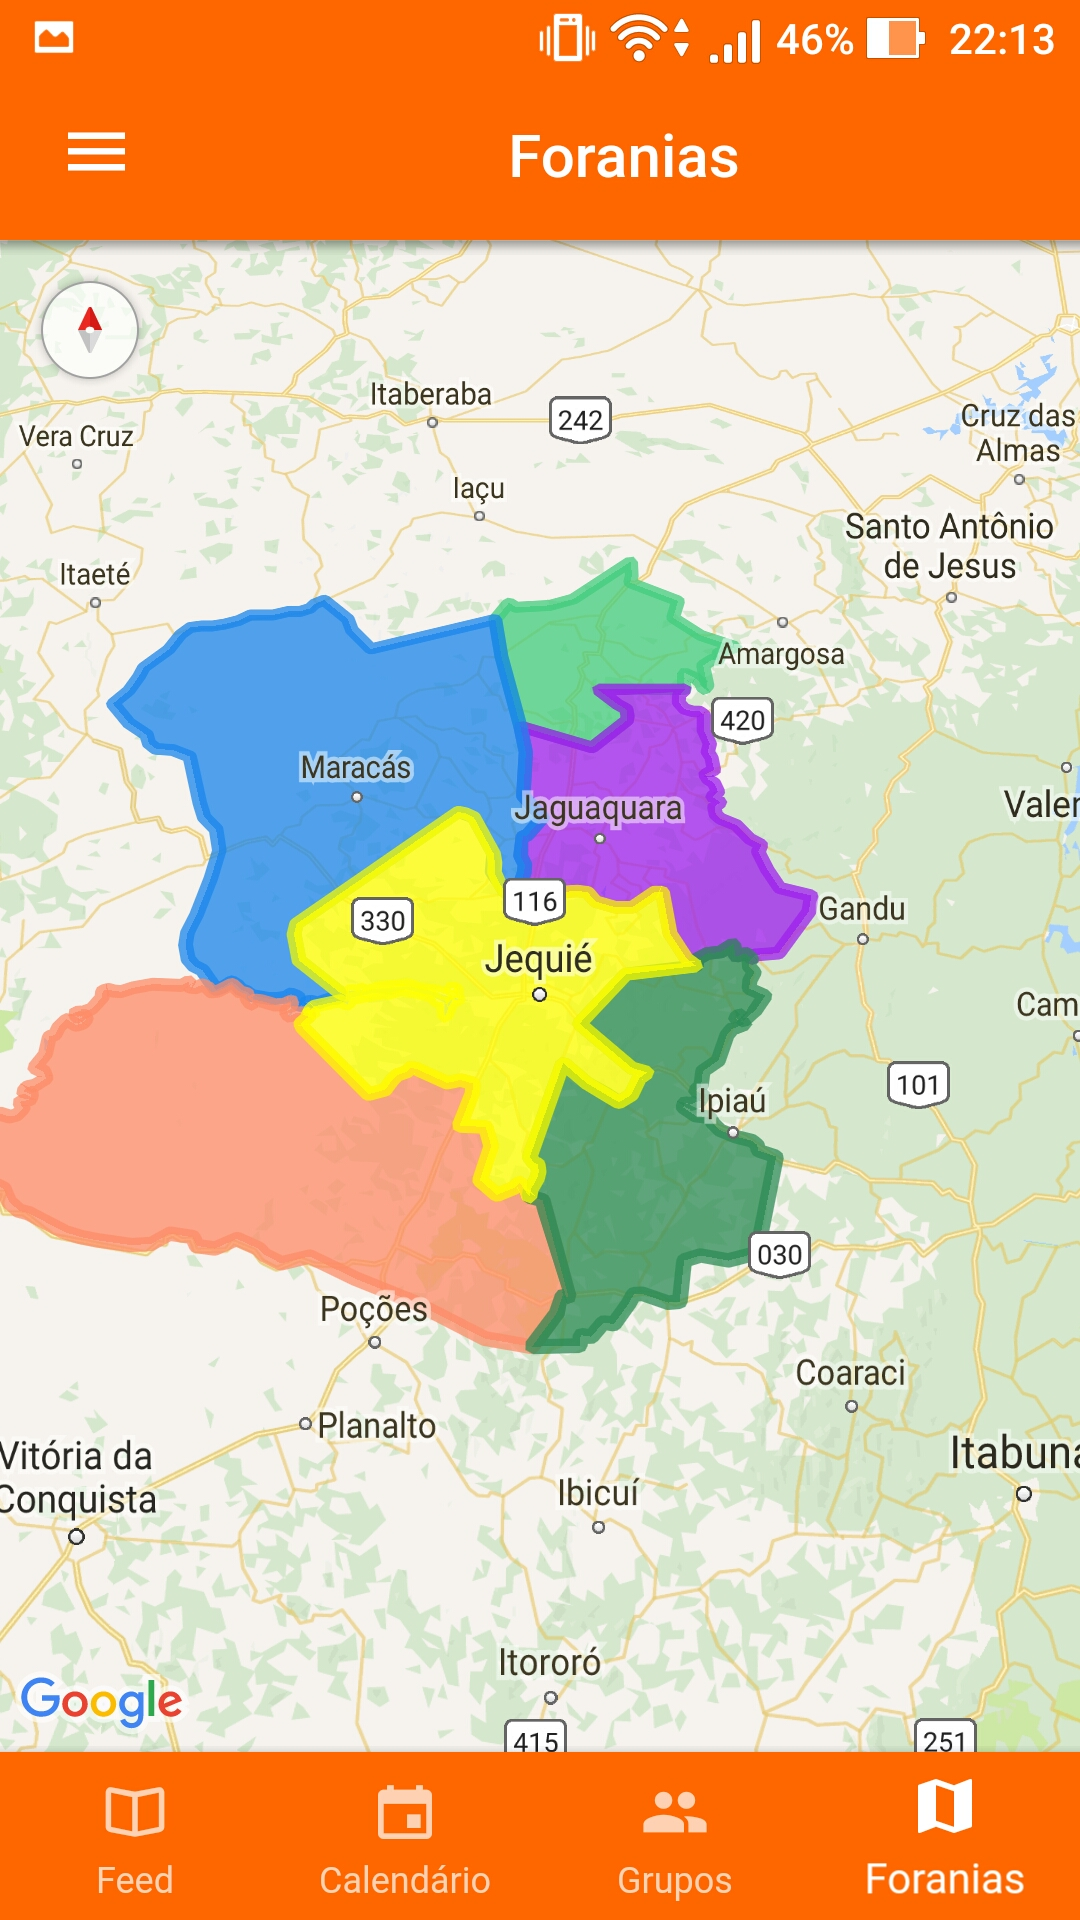
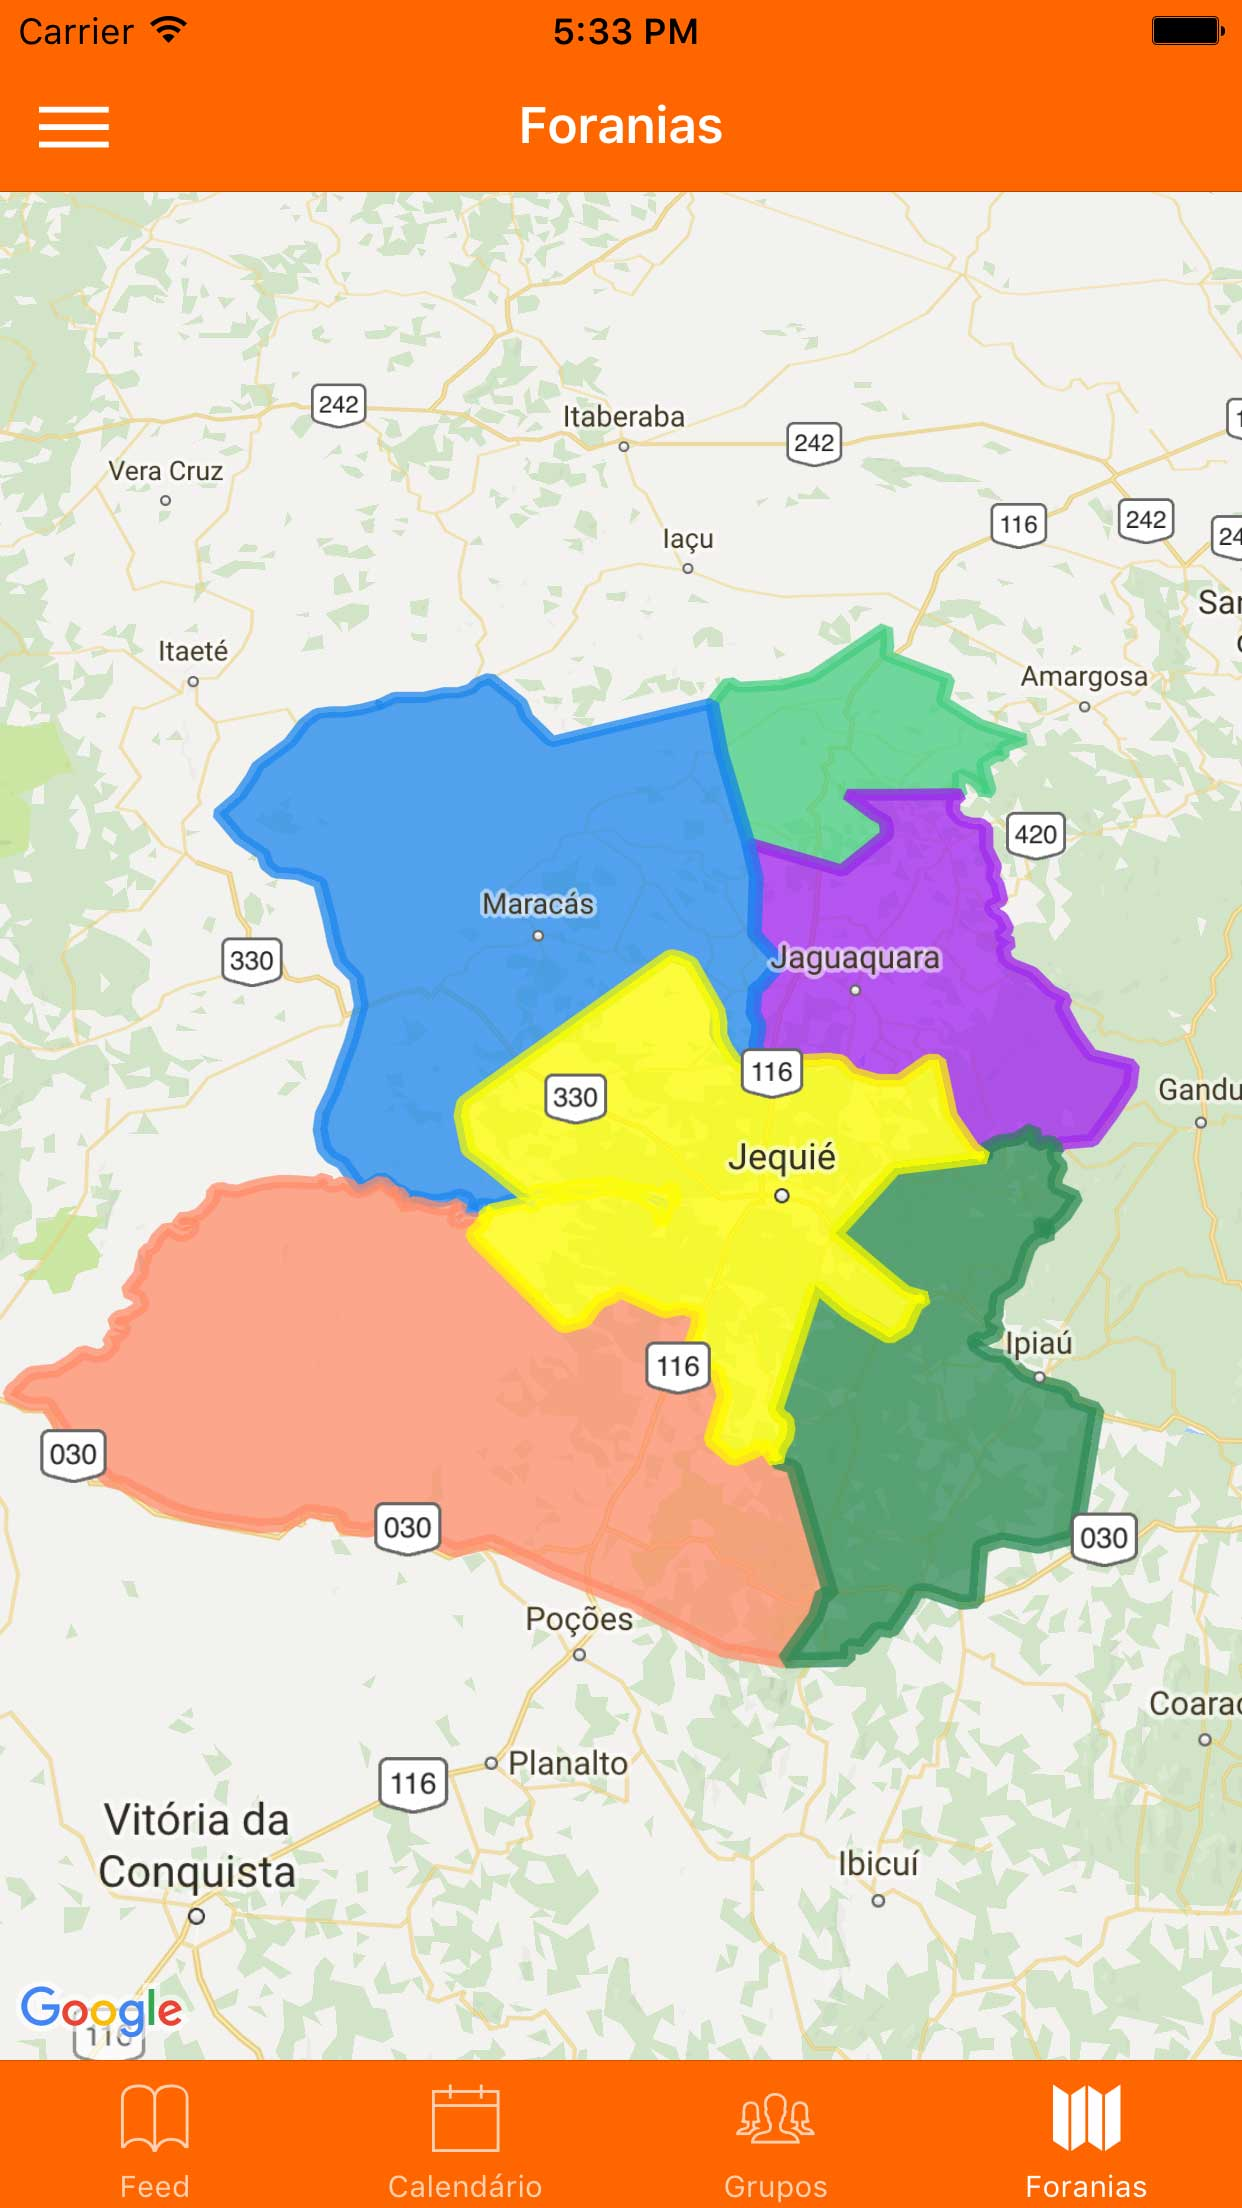
todas as fotos modificadas

diff --git a/CodeOnDemand/index.html b/CodeOnDemand/index.html
@@ -121,7 +121,7 @@
             <!-- Slider de imagens -->
             <div class="slider wow fadeInUp">
                 <div>
-                    <img class="center-block equipeIMG" src="./assets/ricardo.png">
+                    <img class="center-block equipeIMG" src="./assets/ricardo.jpg">
                     <h3>Ricardo Nogueira</h3>
                     <p>Arquiteto de banco de dados e gerente de projetos</p>
                     <ul class="social-link">
@@ -131,7 +131,7 @@
                     </ul>
                 </div>
                 <div>
-                    <img class="center-block equipeIMG" src="./assets/cleybson.png">
+                    <img class="center-block equipeIMG" src="./assets/cleybson.jpg">
                     <h3>Cleybson Cardoso</h3>
                     <p>Desenvolvedor front-end</p>
                     <ul class="social-link">
@@ -141,7 +141,7 @@
                     </ul>
                 </div>
                 <div>
-                    <img class="center-block equipeIMG" src="./assets/lucas.png">
+                    <img class="center-block equipeIMG" src="./assets/lucas.jpg">
                     <h3>Lucas Paiva</h3>
                     <p>Desenvolvedor full-stack</p>
                     <ul class="social-link">
@@ -151,7 +151,7 @@
                     </ul>
                 </div>
                 <div>
-                    <img class="center-block equipeIMG" src="./assets/havallon.png">
+                    <img class="center-block equipeIMG" src="./assets/havallon.jpg">
                     <h3>Havallon Azevedo</h3>
                     <p>Desenvolvedor back-end</p>
                     <ul class="social-link">
@@ -161,7 +161,7 @@
                     </ul>
                 </div>
                 <div>
-                    <img class="center-block equipeIMG" src="./assets/miranda.png">
+                    <img class="center-block equipeIMG" src="./assets/miranda.jpg">
                     <h3>Gabriel Miranda</h3>
                     <p>Desenvolvedor front-end e gerente de vendas</p>
                     <ul class="social-link">
@@ -190,25 +190,25 @@
                                         <!-- Wrapper for slides -->
                                         <div class="carousel-inner" role="listbox">
                                             <div class="item active">
-                                                <img class=".mobileIMG" src="./assets/Setor0.png">
+                                                <img src="./assets/Setor0.jpg">
                                             </div>
                                             <div class="item">
-                                                <img class=".mobileIMG" src="./assets/Setor1.png">
+                                                <img src="./assets/Setor1.jpg">
                                             </div>
                                             <div class="item">
-                                                <img class=".mobileIMG" src="./assets/Setor2.png">
+                                                <img src="./assets/Setor2.jpg">
                                             </div>
                                             <div class="item">
-                                                <img class=".mobileIMG" src="./assets/Setor3.png">
+                                                <img  src="./assets/Setor3.jpg">
                                             </div>
                                             <div class="item">
-                                                <img class=".mobileIMG" src="./assets/Setor4.jpg">
+                                                <img src="./assets/Setor4.jpg">
                                             </div>
                                             <div class="item">
-                                                <img class=".mobileIMG" src="./assets/Setor5.png">
+                                                <img src="./assets/Setor5.jpg">
                                             </div>
                                             <div class="item">
-                                                <img class=".mobileIMG" src="./assets/Setor6.png">
+                                                <img src="./assets/Setor6.jpg">
                                             </div>
                                         </div>
                                     </div>
@@ -225,7 +225,7 @@
                         <div class="device-mockup portrait white">
                             <div class="device" id="macdevice">
                                 <div class="screen">
-                                    <img id="macIMG" src="./assets/DsOutlet.png">
+                                    <img id="macIMG" src="./assets/DsOutlet.jpg">
                                 </div>
                             </div>
                         </div>
@@ -234,7 +234,7 @@
                         <div class="device-mockup iphone6_plus portrait white">
                             <div class="device">
                                 <div class="screen">
-                                    <img id="macIMG" src="./assets/DsMobile.png">
+                                    <img id="macIMG" src="./assets/DsMobile.jpg">
                                 </div>
                                 <div class="button">
                                     <!-- You can hook the "home button" to some JavaScript events or just remove it -->
